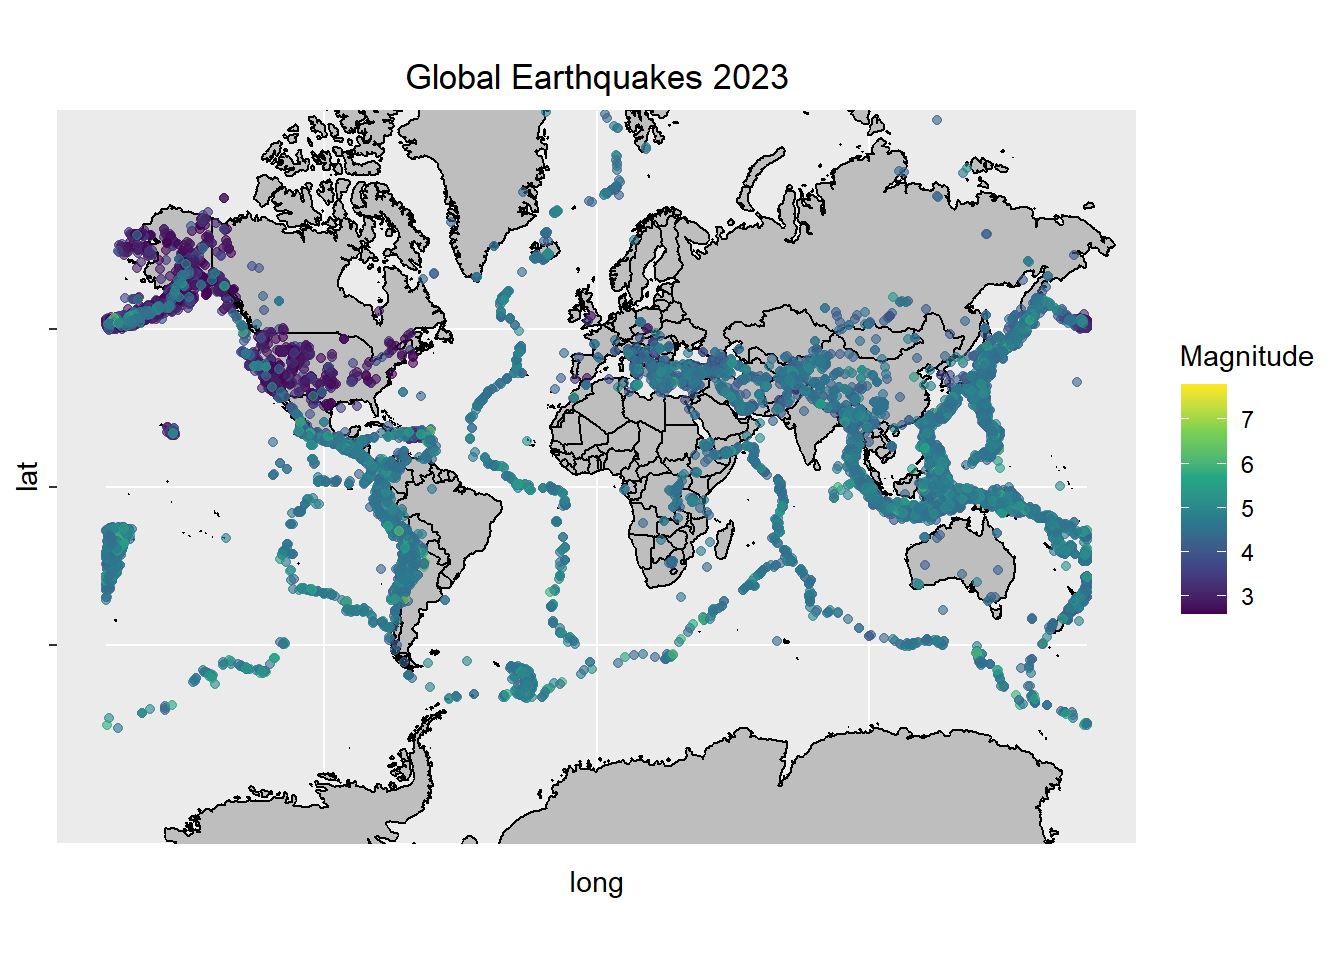
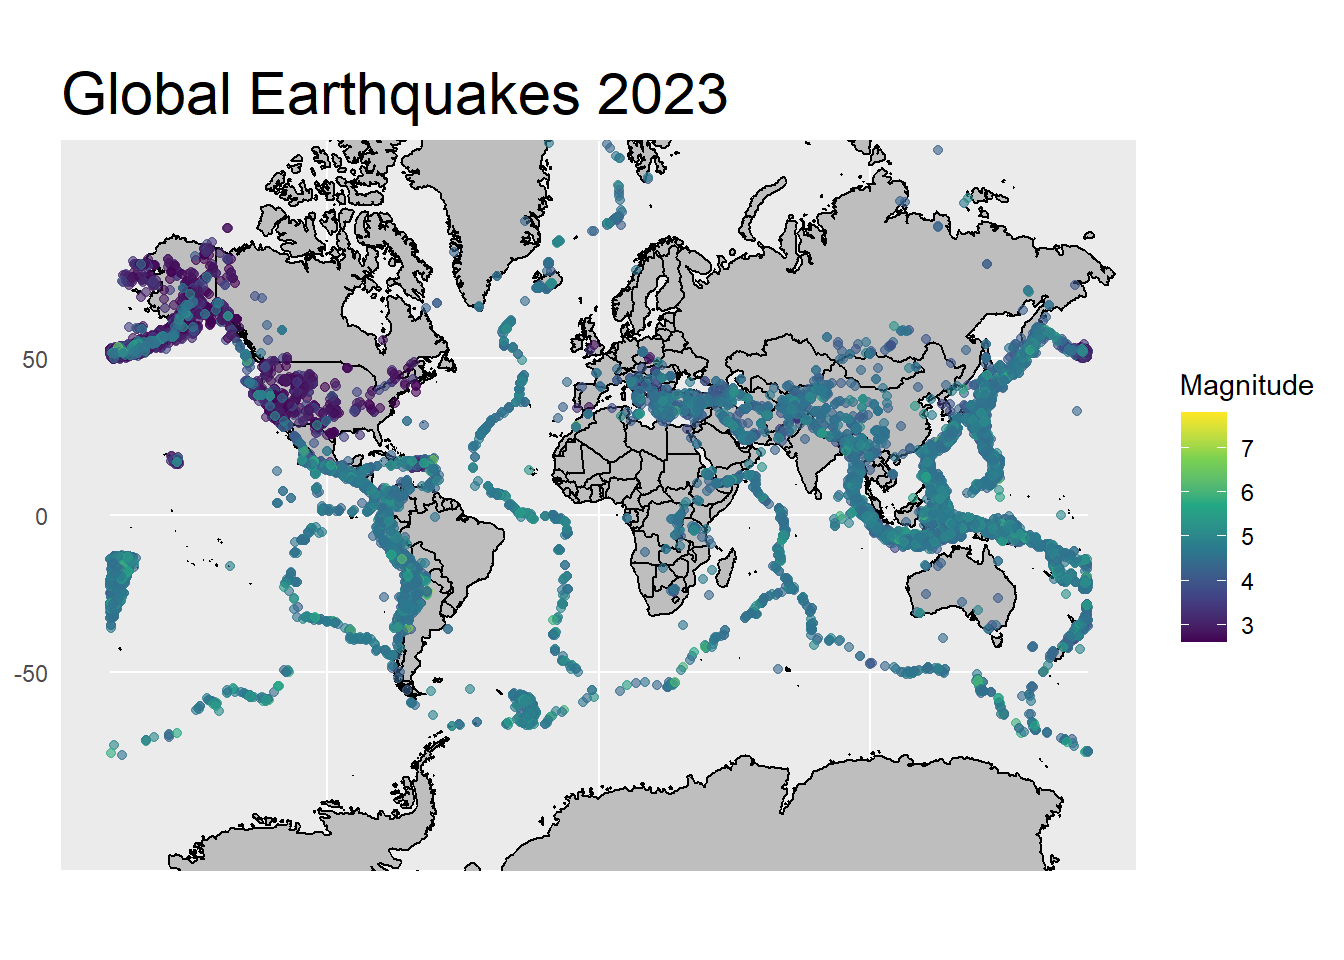
Make changes

diff --git a/docs/posts/2023 Global Earthquake Activity/index.html b/docs/posts/2023 Global Earthquake Activity/index.html
@@ -289,9 +289,10 @@ Attaching package: 'maps'</code></pre>
 <span id="cb11-8"><a href="#cb11-8" aria-hidden="true" tabindex="-1"></a>              <span class="fu">aes</span>(<span class="at">x =</span> longitude, <span class="at">y =</span> latitude, <span class="at">color =</span> mag), <span class="at">alpha =</span> <span class="fl">0.6</span>) <span class="sc">+</span></span>
 <span id="cb11-9"><a href="#cb11-9" aria-hidden="true" tabindex="-1"></a>  <span class="fu">labs</span>(<span class="at">title =</span> <span class="st">"Global Earthquakes 2023"</span>) <span class="sc">+</span></span>
 <span id="cb11-10"><a href="#cb11-10" aria-hidden="true" tabindex="-1"></a>  <span class="fu">scale_color_viridis_c</span>(<span class="at">name =</span> <span class="st">"Magnitude"</span>) <span class="sc">+</span></span>
-<span id="cb11-11"><a href="#cb11-11" aria-hidden="true" tabindex="-1"></a><span class="fu">theme</span>(<span class="at">plot.title =</span> <span class="fu">element_text</span>(<span class="at">hjust=</span><span class="fl">0.5</span>),</span>
-<span id="cb11-12"><a href="#cb11-12" aria-hidden="true" tabindex="-1"></a>      <span class="at">axis.ticks.x=</span><span class="fu">element_blank</span>(),</span>
-<span id="cb11-13"><a href="#cb11-13" aria-hidden="true" tabindex="-1"></a>      <span class="at">axis.text.y=</span><span class="fu">element_blank</span>())</span></code><button title="Copy to Clipboard" class="code-copy-button"><i class="bi"></i></button></pre></div>
+<span id="cb11-11"><a href="#cb11-11" aria-hidden="true" tabindex="-1"></a><span class="fu">theme</span>(<span class="at">plot.title =</span> <span class="fu">element_text</span>(<span class="at">size =</span> <span class="fu">rel</span>(<span class="dv">2</span>)),</span>
+<span id="cb11-12"><a href="#cb11-12" aria-hidden="true" tabindex="-1"></a>      <span class="at">axis.title.x =</span> <span class="fu">element_blank</span>(),</span>
+<span id="cb11-13"><a href="#cb11-13" aria-hidden="true" tabindex="-1"></a>      <span class="at">axis.title.y =</span> <span class="fu">element_blank</span>(),</span>
+<span id="cb11-14"><a href="#cb11-14" aria-hidden="true" tabindex="-1"></a>      <span class="at">axis.ticks.y =</span> <span class="fu">element_blank</span>())</span></code><button title="Copy to Clipboard" class="code-copy-button"><i class="bi"></i></button></pre></div>
 <div class="cell-output-display">
 <p><img src="index_files/figure-html/unnamed-chunk-4-1.png" class="img-fluid" width="672"></p>
 </div>

diff --git a/docs/index.html b/docs/index.html
@@ -170,7 +170,7 @@ ul.task-list li input[type="checkbox"] {
 
 <div class="quarto-listing quarto-listing-container-default" id="listing-listing">
 <div class="list quarto-listing-default">
-<div class="quarto-post image-right" data-index="0" data-categories="Introduction,Primary Visualization,analysis" data-listing-date-sort="1708318800000" data-listing-file-modified-sort="1708653325323" data-listing-date-modified-sort="NaN" data-listing-reading-time-sort="5">
+<div class="quarto-post image-right" data-index="0" data-categories="Introduction,Primary Visualization,analysis" data-listing-date-sort="1708318800000" data-listing-file-modified-sort="1708711559951" data-listing-date-modified-sort="NaN" data-listing-reading-time-sort="5">
 <div class="thumbnail">
 <p><a href="./posts/2023 Global Earthquake Activity/index.html"> <p class="card-img-top"><img src="posts\2023 Global Earthquake Activity\index_files\figure-html\unnamed-chunk-1-1.png"  class="thumbnail-image card-img"/></p> </a></p>
 </div>
